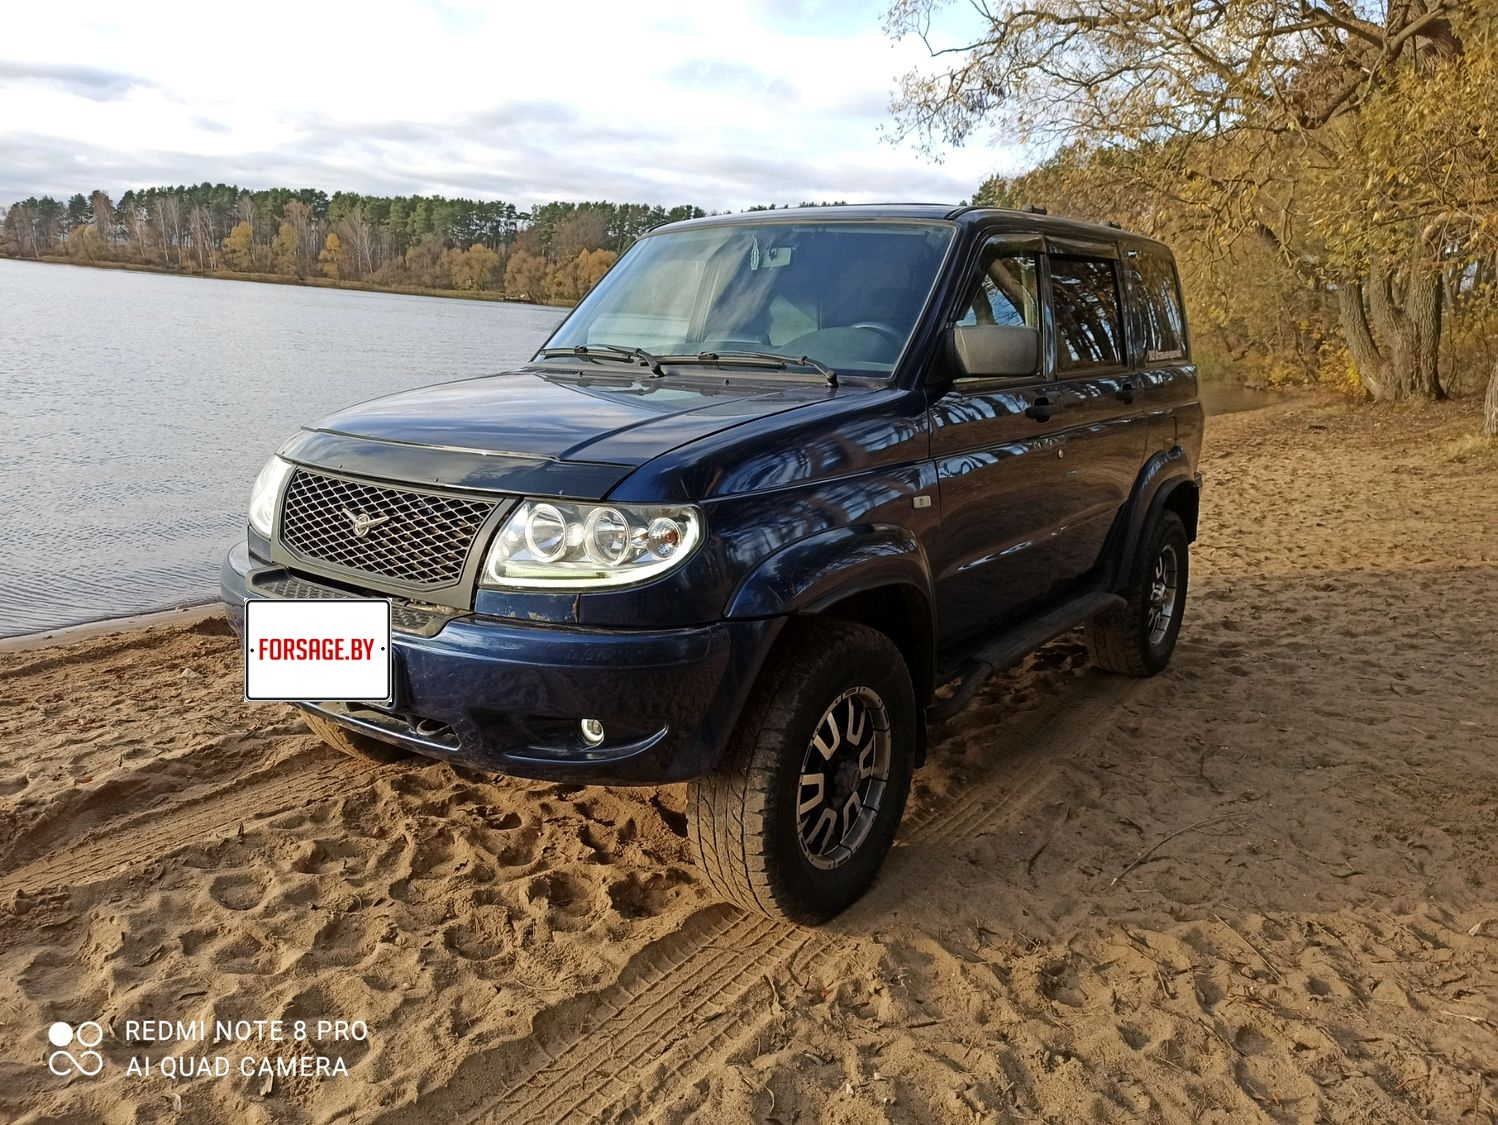
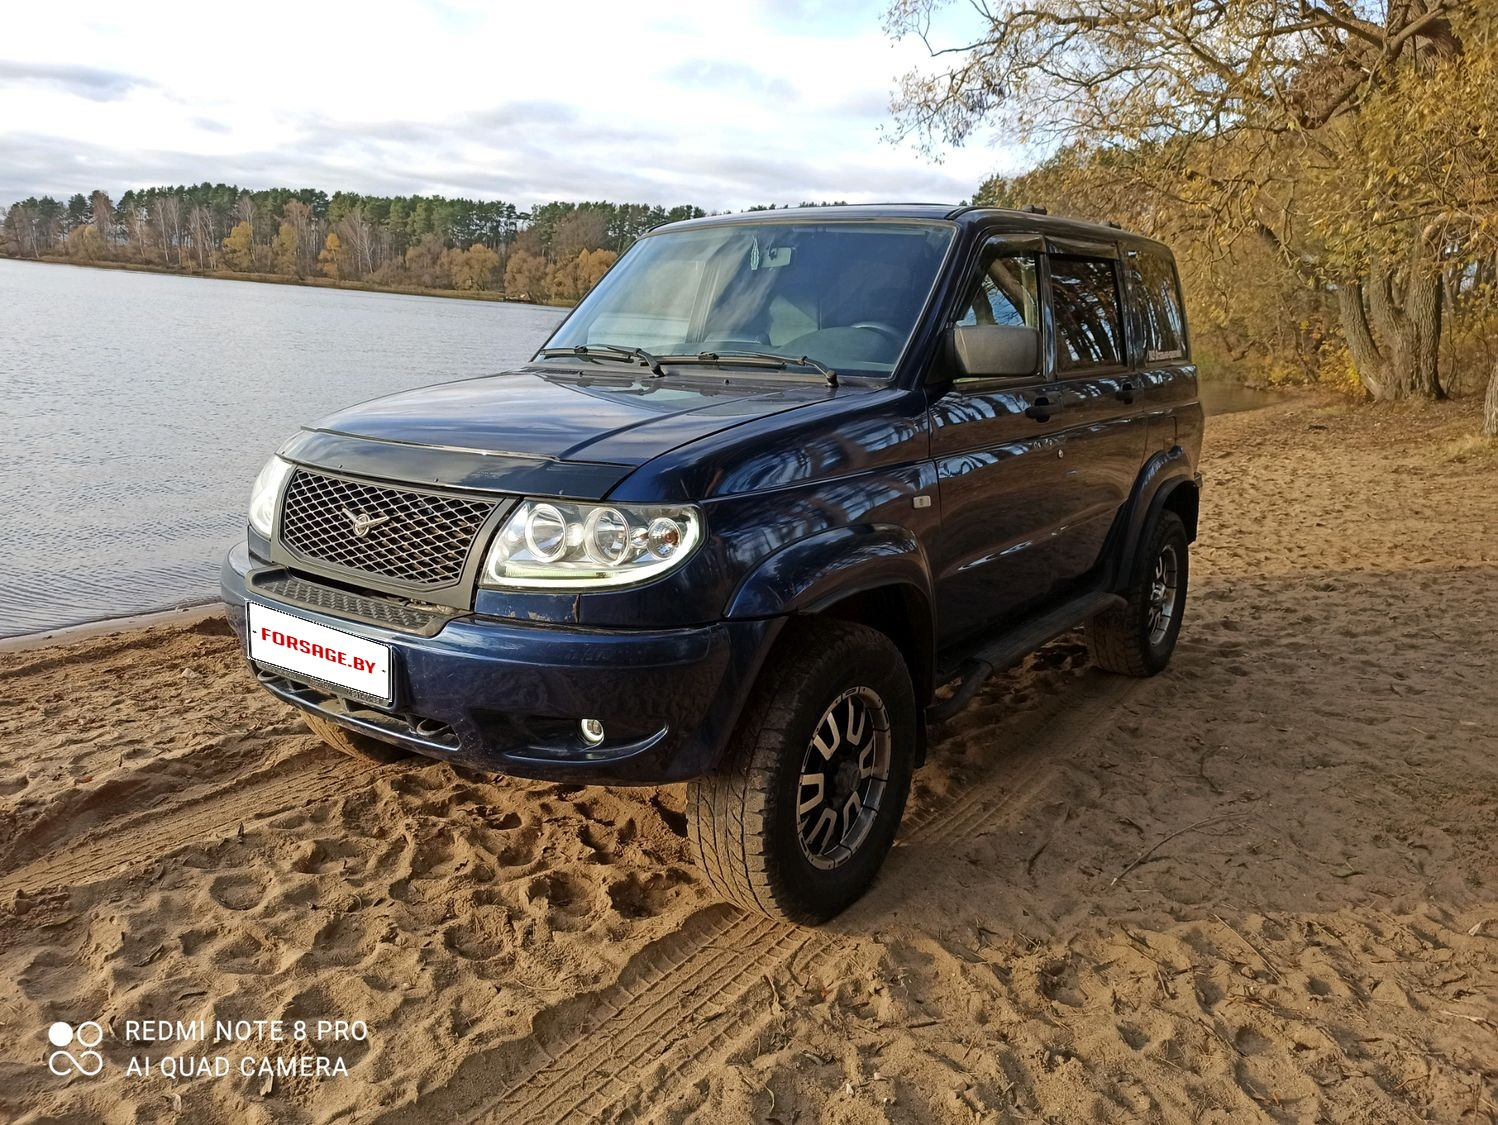
fixed cases

Changed region(s): [[0.1535, 0.5289, 0.2764, 0.6222]]

diff --git a/main.py b/main.py
@@ -3,7 +3,8 @@ import os
 os.environ["CUDA_VISIBLE_DEVICES"] = "0"
 os.environ["TF_FORCE_GPU_ALLOW_GROWTH"]="true"
 import cv2
-
+from scipy.spatial import distance as dist
+from operator import itemgetter
 # Import all necessary libraries.
 import numpy as np
 import sys
@@ -76,9 +77,44 @@ def read_and_image(image):
         #print(textArr)
 
         carimg = cv2.imread(image)
-        logoimg = cv2.imread('./gosnomer_ssha.png')
         x_tuple = []
         y_tuple = []
+        """
+        #arrPoints = np.sort(arrPoints, axis=1)
+        s = arrPoints.sum(axis=2)
+        print(s)
+        #s = arrPoints.sum(axis=2)
+        print(s)
+        rect = np.zeros_like(arrPoints)
+        rect[0][0] = arrPoints[0][np.argmin(s)]
+        rect[0][2] = arrPoints[0][np.argmax(s)]
+        diff = np.diff(arrPoints, axis=2)
+        print(diff)
+        rect[0][1] = arrPoints[0][np.argmin(diff)]
+        rect[0][3] = arrPoints[0][np.argmax(diff)]
+        print(rect)
+        """
+        sorting = []
+        for i in range(len(arrPoints[0]) - 1):
+            for j in range(i + 1, len(arrPoints[0])):
+                print(int(arrPoints[0][i][0]))
+                print(int(arrPoints[0][j][0]))
+                if abs(arrPoints[0][i][0] - arrPoints[0][j][0]) < 1:
+                    print("Есть одинаковые")
+                    sorting.append(0)
+                    break
+                else:
+                    sorting.append(1)
+                    print("Все элементы уникальны")
+        sorting.sort()
+        if sorting[0] == 1:
+            arrPoints[0] = order_points_old(arrPoints[0])
+        else:
+            if arrPoints[0][0][0] - arrPoints[0][3][0] < 1:
+                arrPoints[0] = order_points(arrPoints[0])
+            else:
+                arrPoints[0] = order_points_old(arrPoints[0])
+        print(arrPoints[0])
         for i in range(len(arrPoints[0])):
             #print(arrPoints[0][i])
             if arrPoints[0][i][0] < 0:
@@ -88,60 +124,105 @@ def read_and_image(image):
             x_tuple.append(arrPoints[0][i][0])
             y_tuple.append(arrPoints[0][i][1])
 
+        print(x_tuple)
+        print(y_tuple)
+        up_left = [int(x_tuple[0]), int(y_tuple[0])]
+        print(up_left)
+        up_right = [int(x_tuple[1]), int(y_tuple[1])]
+        print(up_right)
+        down_left = [int(x_tuple[3]), int(y_tuple[3])]
+        print(down_left)
+        down_right = [int(x_tuple[2]), int(y_tuple[2])]
+        print(down_right)
         height_carimg, width_carimg, ch1 = carimg.shape
-
         #print(x_tuple)
 
+        logoimg = cv2.imread('./gosnomer_ssha.png')
+        logoimg = cv2.resize(logoimg, (height_carimg, width_carimg))
+        # width = width_carimg
+        # height = height_carimg
+        height_logoimg, width_logoimg, ch = logoimg.shape
+        coef_width = width_logoimg / width_carimg
+        coef_height = height_logoimg / height_carimg
 
-        if  int(x_tuple[0]) - int(x_tuple[3]) < 10 or int(x_tuple[1]) - int(x_tuple[2]) < 10 or int(y_tuple[2]) - int(x_tuple[3]) < 10 or int(y_tuple[1]) - int(y_tuple[0]) < 10 :
-            print("here")
-            logoimg = cv2.resize(logoimg, (height_carimg, width_carimg))
-            # width = width_carimg
-            # height = height_carimg
-            height_logoimg, width_logoimg, ch = logoimg.shape
-            coef_width = width_logoimg / width_carimg
-            coef_height = height_logoimg / height_carimg
-            up_left = [int(x_tuple[3]), int(y_tuple[3])]
-            print(up_left)
-            up_right =[int(x_tuple[0]), int(y_tuple[0])]
-            print(up_right)
-            down_left = [int(x_tuple[2]), int(y_tuple[2])]
-            print(down_left)
-            down_right = [int(x_tuple[1]), int(y_tuple[1])]
-            print(down_right)
+        print(height_logoimg)
+        print(width_logoimg)
 
-            print(height_logoimg)
-            print(width_logoimg)
+        # print(width)
+        # print(height)
 
-        #print(width)
-        #print(height)
+        pts1 = np.float32([up_left, up_right, down_left, down_right])
+        pts2 = np.float32([[0, 0], [width_logoimg, 0], [0, height_logoimg], [width_logoimg, height_logoimg]])
+        M = cv2.getPerspectiveTransform(pts2, pts1)
+        dst = cv2.warpPerspective(logoimg, M, (height_logoimg, width_logoimg))
+        img2gray = cv2.cvtColor(dst, cv2.COLOR_BGR2GRAY)
+        ret, mask = cv2.threshold(img2gray, 10, 255, cv2.THRESH_BINARY)
+        mask_inv = cv2.bitwise_not(mask)
+        roi = carimg[0:height_carimg, 0:width_carimg]
+        img1_bg = cv2.bitwise_and(roi, roi, mask=mask_inv)
+        img2_fg = cv2.bitwise_and(dst, dst, mask=mask)
+        dst = cv2.add(img1_bg, img2_fg)
 
-            pts1 = np.float32([up_left, up_right,down_left, down_right])
-            pts2 = np.float32([[0,0],[width_logoimg, 0],[0, height_logoimg], [width_logoimg, height_logoimg]])
-            M = cv2.getPerspectiveTransform(pts2, pts1)
-            dst = cv2.warpPerspective(logoimg, M,(height_logoimg, width_logoimg))
-            img2gray = cv2.cvtColor(dst, cv2.COLOR_BGR2GRAY)
-            ret, mask = cv2.threshold(img2gray, 10, 255, cv2.THRESH_BINARY)
-            mask_inv = cv2.bitwise_not(mask)
-            roi = carimg[0:height_carimg, 0:width_carimg]
-            img1_bg = cv2.bitwise_and(roi, roi, mask=mask_inv)
-            img2_fg = cv2.bitwise_and(dst, dst, mask=mask)
-            dst = cv2.add(img1_bg, img2_fg)
+        carimg[0:height_carimg, 0:width_carimg] = dst
 
-            carimg[0:height_carimg,0:width_carimg ] = dst
-        else:
-            width = int(max(x_tuple)) - int(min(x_tuple))
-            height = int(max(y_tuple)) - int(min(y_tuple))
-            logoimg = cv2.resize(logoimg,(width, height))
-            carimg[int(min(y_tuple)): int(max(y_tuple)), int(min(x_tuple)): int(max(x_tuple))] = logoimg
-
-        cv2.imwrite('./output' + image[4:] , carimg)
+        cv2.imwrite('./output' + image[4:], carimg)
         
 
     return textArr
 
 
+def order_points(pts):
+        # sort the points based on their x-coordinates
+        xSorted = pts[np.argsort(pts[:, 0]), :]
+        # grab the left-most and right-most points from the sorted
+        # x-roodinate points
+        leftMost = xSorted[:2, :]
+        rightMost = xSorted[2:, :]
+        # now, sort the left-most coordinates according to their
+        # y-coordinates so we can grab the top-left and bottom-left
+        # points, respectively
+        leftMost = leftMost[np.argsort(leftMost[:, 1]), :]
+        (tl, bl) = leftMost
+        # now that we have the top-left coordinate, use it as an
+        # anchor to calculate the Euclidean distance between the
+        # top-left and right-most points; by the Pythagorean
+        # theorem, the point with the largest distance will be
+        # our bottom-right point
+        D = dist.cdist(tl[np.newaxis], rightMost, "euclidean")[0]
+        (br, tr) = rightMost[np.argsort(D)[::-1], :]
+        # return the coordinates in top-left, top-right,
+        # bottom-right, and bottom-left order
+
+        return np.array([tl, tr, br, bl], dtype="float32")
+
+
+def order_points_old(pts):
+        # initialize a list of coordinates that will be ordered
+        # such that the first entry in the list is the top-left,
+        # the second entry is the top-right, the third is the
+        # bottom-right, and the fourth is the bottom-left
+        rect = np.zeros((4, 2), dtype="float32")
+        # the top-left point will have the smallest sum, whereas
+        # the bottom-right point will have the largest sum
+        print("here")
+        print(pts)
+        s = pts.sum(axis=1)
+        rect[0] = pts[np.argmin(s)]
+        print(rect[0])
+        rect[2] = pts[np.argmax(s)]
+        print(rect[2])
+        # now, compute the difference between the points, the
+        # top-right point will have the smallest difference,
+        # whereas the bottom-left will have the largest difference
+        diff = np.diff(pts, axis=1)
+        rect[1] = pts[np.argmin(diff)]
+        print(rect[1])
+        rect[3] = pts[np.argmax(diff)]
+        print(rect[3])
+        # return the ordered coordinates
+        return rect
 
         # ['JJF509', 'RP70012']
 #check_king('./img/1200x900n.png')
-#read_and_image('./by/3328.jpeg')
+#read_and_image('./ru/a7d5685.jpg')
+read_and_image('./by/CryuOEA4Lf.jpg')
